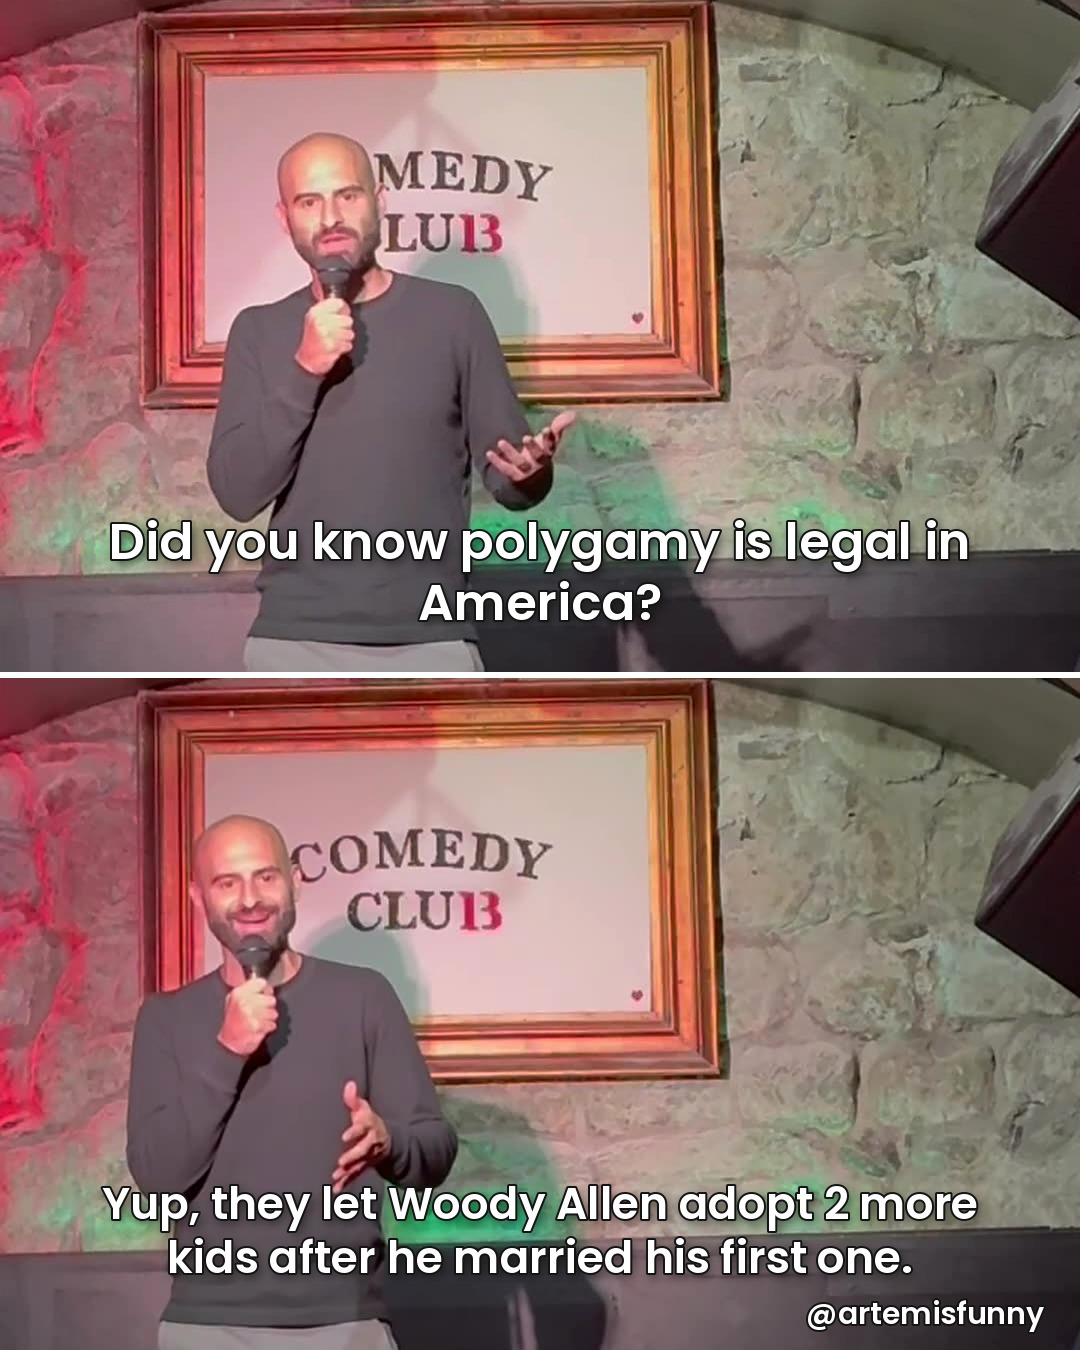
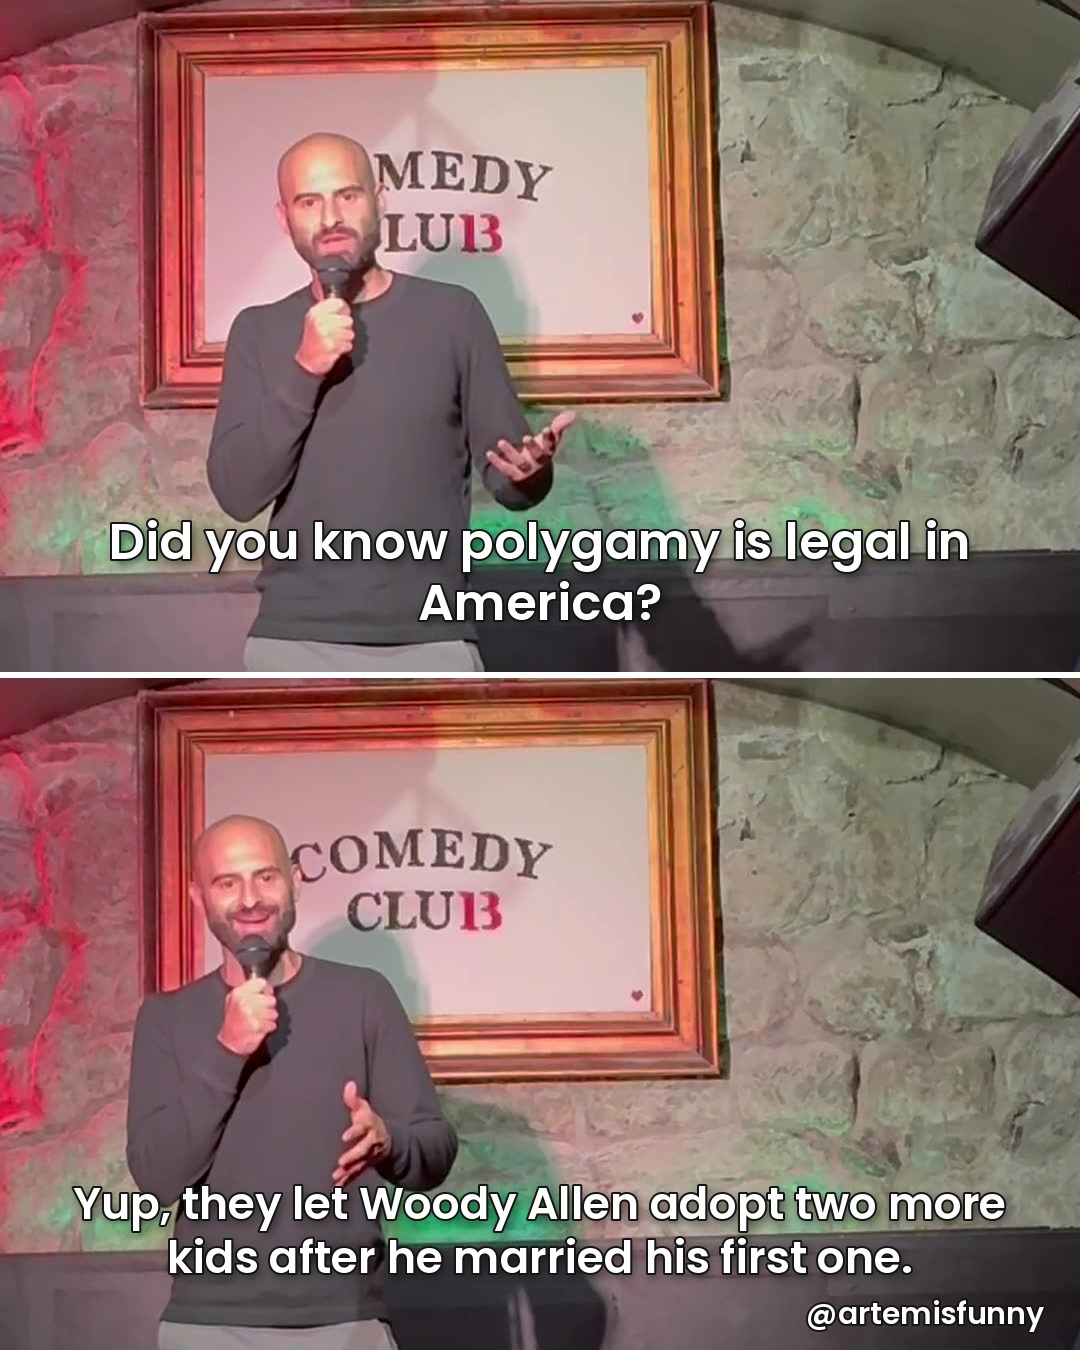
Legal Polygamy: spell out two
Claude-Session: https://claude.ai/code/session_01EF93tfxUuMCYzNZMZAUpcb

Changed region(s): [[0.0611, 0.8711, 0.9472, 0.9333]]

diff --git a/joke-carousels/captions-legal-polygamy.md b/joke-carousels/captions-legal-polygamy.md
@@ -2,7 +2,7 @@
 
 Build: `python3 joke-carousels/split_posts.py joke-carousels/legal_polygamy.json`
 
-Wording is Artem's own (2026-10-31), tightened from the 6/16/26 Culture Shock St Marks stage version: "Did you know polygamy is legal in America? / Yup, they let Woody Allen adopt 2 more kids after he married his first one." The 2 is accurate (Bechet and Manzie). The Notion row links an older IG clip of this joke (DXsUkddiqK-), and Artem said 2026-10-31 that posting it again is fine.
+Wording is Artem's own (2026-10-31), tightened from the 6/16/26 Culture Shock St Marks stage version: "Did you know polygamy is legal in America? / Yup, they let Woody Allen adopt two more kids after he married his first one." The 2 is accurate (Bechet and Manzie). The Notion row links an older IG clip of this joke (DXsUkddiqK-), and Artem said 2026-10-31 that posting it again is fine.
 
 Background: Comedy 13, 09/29/26 (tape frames, FSRCNN upscale). Artem asked for Comedy 13 on 2026-10-31 to rotate off St Marks. Neutral c13_482 / smile c13_270, mic at his mouth in both.
 
